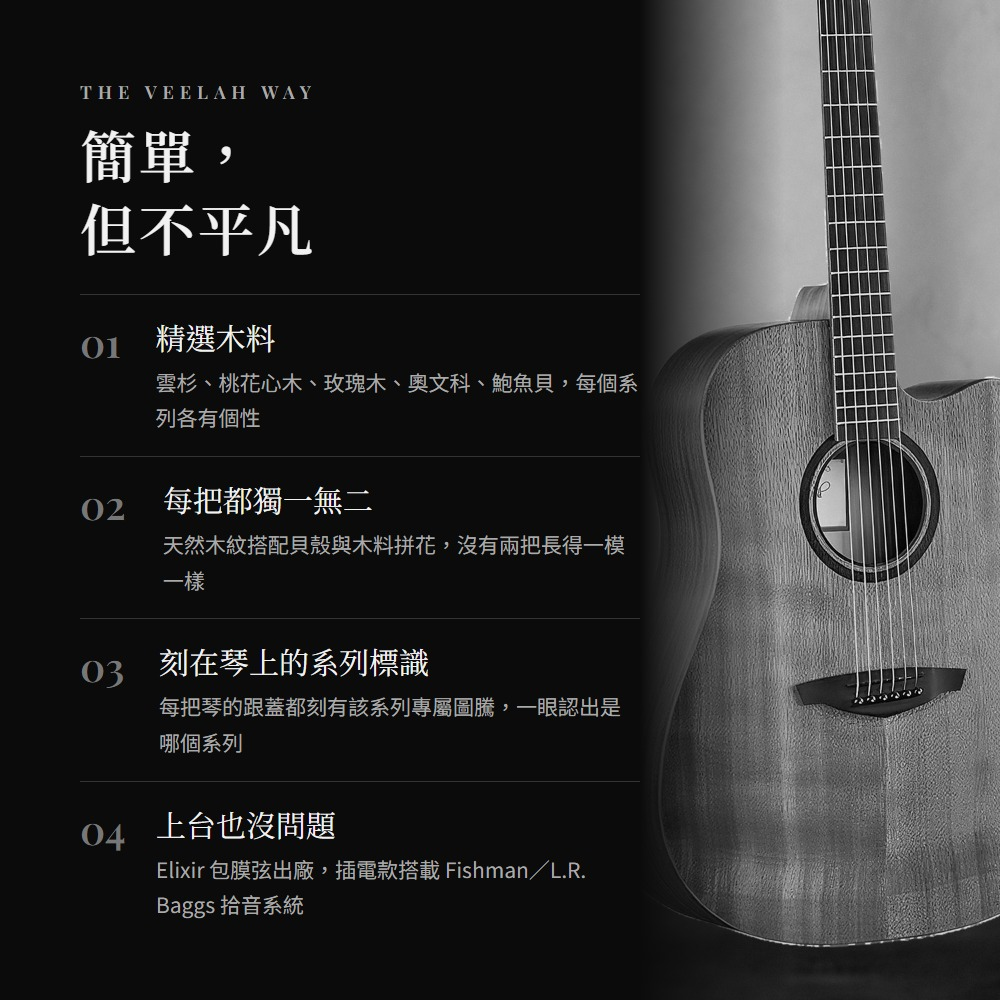
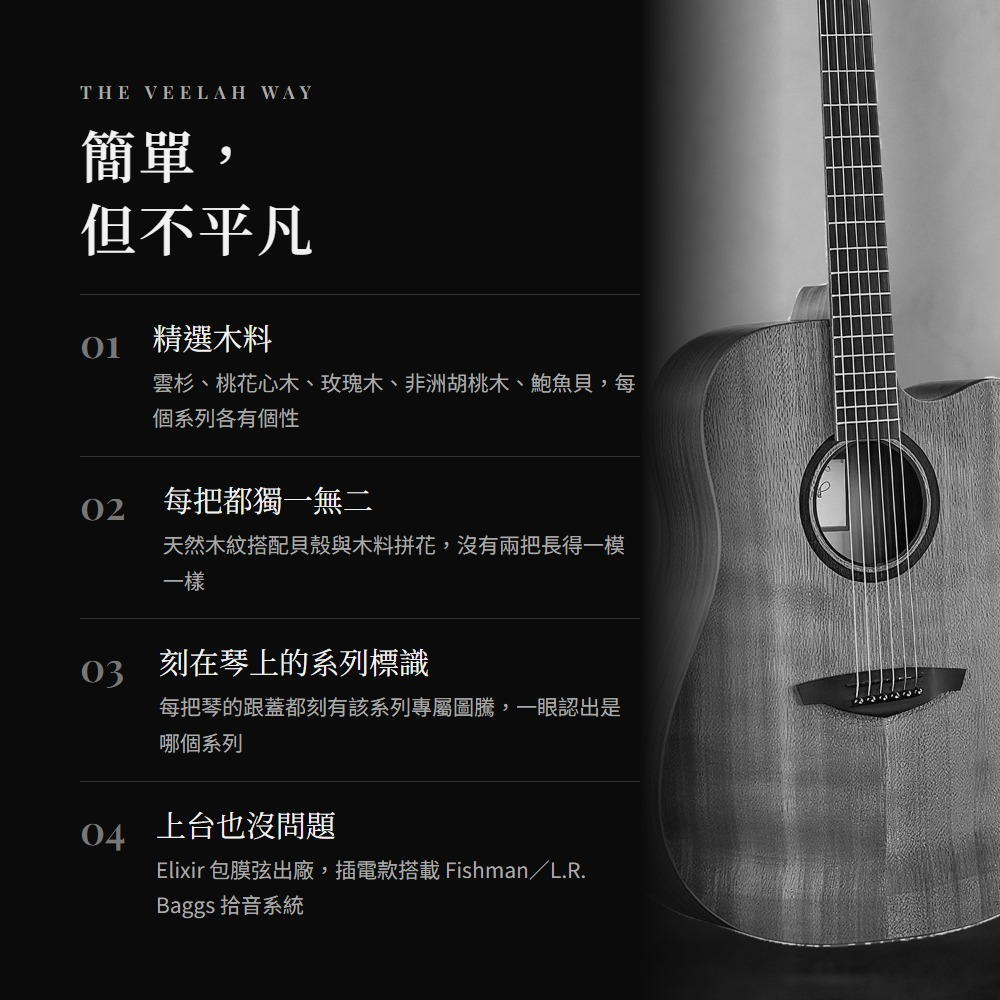
Veelah V3: 奧文科 改台灣常用說法 非洲胡桃木（頁面+品牌特色圖）

Changed region(s): [[0.155, 0.31, 0.651, 0.434]]

diff --git a/guitar/veelah/all.html b/guitar/veelah/all.html
@@ -306,24 +306,24 @@ Adding to its unique character, this model boasts antique brass plate hardware, 
  
 This guitar isn&#x27;t just an instrument—it&#x27;s a statement. Whether on stage, in the studio, or in the comfort of your home, the new Veelah guitar invites you to play with confidence and inspire those around you.</pre></details>
 
-<h3>官網原圖 <small>白底，大部分 850×1100</small></h3><div class="grid orig"><div class="card"><img loading="lazy" src="v2-denim/orig/V2-OM_Denim.jpg?v=1" alt=""><div class="cap"><span>V2-OM_Denim.jpg　1800×2330</span><a href="v2-denim/orig/V2-OM_Denim.jpg" download>下載</a></div></div><div class="card"><img loading="lazy" src="v2-denim/orig/V2-OM_Denim_Back.jpg?v=1" alt=""><div class="cap"><span>V2-OM_Denim_Back.jpg　1800×2330</span><a href="v2-denim/orig/V2-OM_Denim_Back.jpg" download>下載</a></div></div><div class="card"><img loading="lazy" src="v2-denim/orig/V2_Denim_Headstock.jpg?v=1" alt=""><div class="cap"><span>V2_Denim_Headstock.jpg　1800×2330</span><a href="v2-denim/orig/V2_Denim_Headstock.jpg" download>下載</a></div></div><div class="card"><img loading="lazy" src="v2-denim/orig/V2_Denim_OM_Close_Up.jpg?v=1" alt=""><div class="cap"><span>V2_Denim_OM_Close_Up.jpg　1800×2330</span><a href="v2-denim/orig/V2_Denim_OM_Close_Up.jpg" download>下載</a></div></div><div class="card"><img loading="lazy" src="v2-denim/orig/pexels-enric-cruz-lopez-7444977.jpg?v=1" alt=""><div class="cap"><span>pexels-enric-cruz-lopez-7444977.jpg　1800×2330</span><a href="v2-denim/orig/pexels-enric-cruz-lopez-7444977.jpg" download>下載</a></div></div><div class="card"><img loading="lazy" src="v2-denim/orig/denim_bg.jpg?v=1" alt=""><div class="cap"><span>denim_bg.jpg　1800×2330</span><a href="v2-denim/orig/denim_bg.jpg" download>下載</a></div></div><div class="card"><img loading="lazy" src="v2-denim/orig/denim_bg2.jpg?v=1" alt=""><div class="cap"><span>denim_bg2.jpg　1800×2330</span><a href="v2-denim/orig/denim_bg2.jpg" download>下載</a></div></div></div></section><section class="model" id="v3"><div class="mh"><div><h2>Veelah V3 系列</h2><p>奧文科背側，有玫瑰木味道的溫潤聲音</p></div>
+<h3>官網原圖 <small>白底，大部分 850×1100</small></h3><div class="grid orig"><div class="card"><img loading="lazy" src="v2-denim/orig/V2-OM_Denim.jpg?v=1" alt=""><div class="cap"><span>V2-OM_Denim.jpg　1800×2330</span><a href="v2-denim/orig/V2-OM_Denim.jpg" download>下載</a></div></div><div class="card"><img loading="lazy" src="v2-denim/orig/V2-OM_Denim_Back.jpg?v=1" alt=""><div class="cap"><span>V2-OM_Denim_Back.jpg　1800×2330</span><a href="v2-denim/orig/V2-OM_Denim_Back.jpg" download>下載</a></div></div><div class="card"><img loading="lazy" src="v2-denim/orig/V2_Denim_Headstock.jpg?v=1" alt=""><div class="cap"><span>V2_Denim_Headstock.jpg　1800×2330</span><a href="v2-denim/orig/V2_Denim_Headstock.jpg" download>下載</a></div></div><div class="card"><img loading="lazy" src="v2-denim/orig/V2_Denim_OM_Close_Up.jpg?v=1" alt=""><div class="cap"><span>V2_Denim_OM_Close_Up.jpg　1800×2330</span><a href="v2-denim/orig/V2_Denim_OM_Close_Up.jpg" download>下載</a></div></div><div class="card"><img loading="lazy" src="v2-denim/orig/pexels-enric-cruz-lopez-7444977.jpg?v=1" alt=""><div class="cap"><span>pexels-enric-cruz-lopez-7444977.jpg　1800×2330</span><a href="v2-denim/orig/pexels-enric-cruz-lopez-7444977.jpg" download>下載</a></div></div><div class="card"><img loading="lazy" src="v2-denim/orig/denim_bg.jpg?v=1" alt=""><div class="cap"><span>denim_bg.jpg　1800×2330</span><a href="v2-denim/orig/denim_bg.jpg" download>下載</a></div></div><div class="card"><img loading="lazy" src="v2-denim/orig/denim_bg2.jpg?v=1" alt=""><div class="cap"><span>denim_bg2.jpg　1800×2330</span><a href="v2-denim/orig/denim_bg2.jpg" download>下載</a></div></div></div></section><section class="model" id="v3"><div class="mh"><div><h2>Veelah V3 系列</h2><p>非洲胡桃木背側，有玫瑰木味道的溫潤聲音</p></div>
 <div class="btns"><a class="dl" href="v3/Veelah_v3_orig.zip" download>下載原圖（7 張 zip）</a><a class="dl ghost" href="https://www.veelah.com.tw/product-page/v3-series" target="_blank" rel="noopener">官網頁面</a></div></div>
 
 <h3>型號＆上架狀態 <small>建議商品名稱可以直接複製；MOMO／PChome 是 11/19 核對現有賣場</small></h3>
-<div class="tw"><table class="st"><tr><th>型號</th><th>桶型說明</th><th>MOMO</th><th>PChome</th><th>建議商品名稱</th></tr><tr><td><b>D</b></td><td>D 桶（Dreadnought 大桶身，聲音最大、低頻飽滿）</td><td><span class="no">還沒上</span></td><td><span class="no">還沒上</span></td><td><span class="nm">Veelah V3-D 面單吉他 雲杉單板 奧文科背側 民謠木吉他</span> <button class="cp" data-t="Veelah V3-D 面單吉他 雲杉單板 奧文科背側 民謠木吉他">複製</button></td></tr><tr><td><b>OM</b></td><td>OM 桶（中型腰身，好抱、聲音平衡，指彈自彈自唱都適合）</td><td><span class="no">還沒上</span></td><td><span class="no">還沒上</span></td><td><span class="nm">Veelah V3-OM 面單吉他 雲杉單板 奧文科背側 民謠木吉他</span> <button class="cp" data-t="Veelah V3-OM 面單吉他 雲杉單板 奧文科背側 民謠木吉他">複製</button></td></tr><tr><td><b>OMCE</b></td><td>OM 桶缺角＋插電</td><td><span class="no">還沒上</span></td><td><span class="no">還沒上</span></td><td><span class="nm">Veelah V3-OMCE 面單吉他 雲杉單板 奧文科背側 民謠木吉他 插電款</span> <button class="cp" data-t="Veelah V3-OMCE 面單吉他 雲杉單板 奧文科背側 民謠木吉他 插電款">複製</button></td></tr><tr><td><b>FOLK</b></td><td>Folk 小桶</td><td><span class="no">還沒上</span></td><td><span class="no">還沒上</span></td><td><span class="nm">Veelah V3-FOLK 面單吉他 雲杉單板 奧文科背側 民謠木吉他</span> <button class="cp" data-t="Veelah V3-FOLK 面單吉他 雲杉單板 奧文科背側 民謠木吉他">複製</button></td></tr><tr><td><b>FE</b></td><td>Folk 小桶＋插電</td><td><span class="no">還沒上</span></td><td><span class="no">還沒上</span></td><td><span class="nm">Veelah V3-FE 面單吉他 雲杉單板 奧文科背側 民謠木吉他 插電款</span> <button class="cp" data-t="Veelah V3-FE 面單吉他 雲杉單板 奧文科背側 民謠木吉他 插電款">複製</button></td></tr><tr><td><b>GAC</b></td><td>GA 桶缺角</td><td><span class="ok">已上</span></td><td><span class="no">還沒上</span></td><td><span class="nm">Veelah V3-GAC 面單吉他 雲杉單板 奧文科背側 民謠木吉他</span> <button class="cp" data-t="Veelah V3-GAC 面單吉他 雲杉單板 奧文科背側 民謠木吉他">複製</button></td></tr><tr><td><b>OMB</b></td><td>OM 桶 黑色</td><td><span class="no">還沒上</span></td><td><span class="no">還沒上</span></td><td><span class="nm">Veelah V3-OMB 面單吉他 雲杉單板 奧文科背側 民謠木吉他</span> <button class="cp" data-t="Veelah V3-OMB 面單吉他 雲杉單板 奧文科背側 民謠木吉他">複製</button></td></tr><tr><td><b>PCE</b></td><td>Parlor 小桶缺角＋插電</td><td><span class="no">還沒上</span></td><td><span class="no">還沒上</span></td><td><span class="nm">Veelah V3-PCE 面單吉他 雲杉單板 奧文科背側 民謠木吉他 插電款</span> <button class="cp" data-t="Veelah V3-PCE 面單吉他 雲杉單板 奧文科背側 民謠木吉他 插電款">複製</button></td></tr></table></div>
-<div class="two"><div class="box"><div class="bh"><b>商品特色</b><button class="cp" data-t="・V3 的招牌是奧文科拼接音孔花紋，跟背側同一種木頭，整體很協調
-・奧文科的聲音很像玫瑰木：低音紮實、高音甜，回應快、泛音溫暖
+<div class="tw"><table class="st"><tr><th>型號</th><th>桶型說明</th><th>MOMO</th><th>PChome</th><th>建議商品名稱</th></tr><tr><td><b>D</b></td><td>D 桶（Dreadnought 大桶身，聲音最大、低頻飽滿）</td><td><span class="no">還沒上</span></td><td><span class="no">還沒上</span></td><td><span class="nm">Veelah V3-D 面單吉他 雲杉單板 非洲胡桃木背側 民謠木吉他</span> <button class="cp" data-t="Veelah V3-D 面單吉他 雲杉單板 非洲胡桃木背側 民謠木吉他">複製</button></td></tr><tr><td><b>OM</b></td><td>OM 桶（中型腰身，好抱、聲音平衡，指彈自彈自唱都適合）</td><td><span class="no">還沒上</span></td><td><span class="no">還沒上</span></td><td><span class="nm">Veelah V3-OM 面單吉他 雲杉單板 非洲胡桃木背側 民謠木吉他</span> <button class="cp" data-t="Veelah V3-OM 面單吉他 雲杉單板 非洲胡桃木背側 民謠木吉他">複製</button></td></tr><tr><td><b>OMCE</b></td><td>OM 桶缺角＋插電</td><td><span class="no">還沒上</span></td><td><span class="no">還沒上</span></td><td><span class="nm">Veelah V3-OMCE 面單吉他 雲杉單板 非洲胡桃木背側 民謠木吉他 插電款</span> <button class="cp" data-t="Veelah V3-OMCE 面單吉他 雲杉單板 非洲胡桃木背側 民謠木吉他 插電款">複製</button></td></tr><tr><td><b>FOLK</b></td><td>Folk 小桶</td><td><span class="no">還沒上</span></td><td><span class="no">還沒上</span></td><td><span class="nm">Veelah V3-FOLK 面單吉他 雲杉單板 非洲胡桃木背側 民謠木吉他</span> <button class="cp" data-t="Veelah V3-FOLK 面單吉他 雲杉單板 非洲胡桃木背側 民謠木吉他">複製</button></td></tr><tr><td><b>FE</b></td><td>Folk 小桶＋插電</td><td><span class="no">還沒上</span></td><td><span class="no">還沒上</span></td><td><span class="nm">Veelah V3-FE 面單吉他 雲杉單板 非洲胡桃木背側 民謠木吉他 插電款</span> <button class="cp" data-t="Veelah V3-FE 面單吉他 雲杉單板 非洲胡桃木背側 民謠木吉他 插電款">複製</button></td></tr><tr><td><b>GAC</b></td><td>GA 桶缺角</td><td><span class="ok">已上</span></td><td><span class="no">還沒上</span></td><td><span class="nm">Veelah V3-GAC 面單吉他 雲杉單板 非洲胡桃木背側 民謠木吉他</span> <button class="cp" data-t="Veelah V3-GAC 面單吉他 雲杉單板 非洲胡桃木背側 民謠木吉他">複製</button></td></tr><tr><td><b>OMB</b></td><td>OM 桶 黑色</td><td><span class="no">還沒上</span></td><td><span class="no">還沒上</span></td><td><span class="nm">Veelah V3-OMB 面單吉他 雲杉單板 非洲胡桃木背側 民謠木吉他</span> <button class="cp" data-t="Veelah V3-OMB 面單吉他 雲杉單板 非洲胡桃木背側 民謠木吉他">複製</button></td></tr><tr><td><b>PCE</b></td><td>Parlor 小桶缺角＋插電</td><td><span class="no">還沒上</span></td><td><span class="no">還沒上</span></td><td><span class="nm">Veelah V3-PCE 面單吉他 雲杉單板 非洲胡桃木背側 民謠木吉他 插電款</span> <button class="cp" data-t="Veelah V3-PCE 面單吉他 雲杉單板 非洲胡桃木背側 民謠木吉他 插電款">複製</button></td></tr></table></div>
+<div class="two"><div class="box"><div class="bh"><b>商品特色</b><button class="cp" data-t="・V3 的招牌是非洲胡桃木拼接音孔花紋，跟背側同一種木頭，整體很協調
+・非洲胡桃木的聲音很像玫瑰木：低音紮實、高音甜，回應快、泛音溫暖
 ・雲杉單板面板，消光塗裝，手感滑順
 ・TUSQ 上下弦枕、霧面鍍鉻 14:1 弦鈕
-・插電款搭載 Fishman Presys II 前級">複製</button></div><pre>・V3 的招牌是奧文科拼接音孔花紋，跟背側同一種木頭，整體很協調
-・奧文科的聲音很像玫瑰木：低音紮實、高音甜，回應快、泛音溫暖
+・插電款搭載 Fishman Presys II 前級">複製</button></div><pre>・V3 的招牌是非洲胡桃木拼接音孔花紋，跟背側同一種木頭，整體很協調
+・非洲胡桃木的聲音很像玫瑰木：低音紮實、高音甜，回應快、泛音溫暖
 ・雲杉單板面板，消光塗裝，手感滑順
 ・TUSQ 上下弦枕、霧面鍍鉻 14:1 弦鈕
 ・插電款搭載 Fishman Presys II 前級</pre></div>
 <div class="box"><div class="bh"><b>規格表</b><button class="cp" data-t="面板：雲杉單板
-背板：奧文科（Ovangkol）
-側板：奧文科（Ovangkol）
-音孔花紋：奧文科（Ovangkol）
+背板：非洲胡桃木（Ovangkol）
+側板：非洲胡桃木（Ovangkol）
+音孔花紋：非洲胡桃木（Ovangkol）
 琴頸：桃花心木
 指板：鐵木（Pau Ferro）
 琴橋：鐵木（Pau Ferro）
@@ -337,9 +337,9 @@ This guitar isn&#x27;t just an instrument—it&#x27;s a statement. Whether on st
 拾音器（插電款）：Fishman Presys II
 附件：依賣場搭配
 桶型：D / OM / OMCE / FOLK / FE / GAC / OMB / PCE">複製</button></div><pre>面板：雲杉單板
-背板：奧文科（Ovangkol）
-側板：奧文科（Ovangkol）
-音孔花紋：奧文科（Ovangkol）
+背板：非洲胡桃木（Ovangkol）
+側板：非洲胡桃木（Ovangkol）
+音孔花紋：非洲胡桃木（Ovangkol）
 琴頸：桃花心木
 指板：鐵木（Pau Ferro）
 琴橋：鐵木（Pau Ferro）

diff --git a/guitar/veelah/index.html b/guitar/veelah/index.html
@@ -170,23 +170,23 @@ footer{max-width:1200px;margin:40px auto;padding:0 16px;color:var(--sub);font-si
 拾音器（插電款）：Fishman GT2
 附件：原廠豪華帆布琴袋</pre></div></div>
 <h3>西班牙風格圖 <small>1500×1500，每個場景一張遠景＋一張近景</small></h3><div class="mb"><div class="bh"><b>V2-DC</b><a class="dl sm" href="v2/spain/V2_DC_spain.zip" download>整包下載 6 張</a></div><div class="grid sp"><div class="card"><img loading="lazy" src="v2/spain/V2-DC_s12_wide.jpg?v=2" alt=""><div class="cap"><span>遠景</span><a href="v2/spain/V2-DC_s12_wide.jpg" download>下載</a></div></div><div class="card"><img loading="lazy" src="v2/spain/V2-DC_s12_close.jpg?v=2" alt=""><div class="cap"><span>近景</span><a href="v2/spain/V2-DC_s12_close.jpg" download>下載</a></div></div><div class="card"><img loading="lazy" src="v2/spain/V2-DC_s16_wide.jpg?v=2" alt=""><div class="cap"><span>遠景</span><a href="v2/spain/V2-DC_s16_wide.jpg" download>下載</a></div></div><div class="card"><img loading="lazy" src="v2/spain/V2-DC_s16_close.jpg?v=2" alt=""><div class="cap"><span>近景</span><a href="v2/spain/V2-DC_s16_close.jpg" download>下載</a></div></div><div class="card"><img loading="lazy" src="v2/spain/V2-DC_s3_wide.jpg?v=2" alt=""><div class="cap"><span>遠景</span><a href="v2/spain/V2-DC_s3_wide.jpg" download>下載</a></div></div><div class="card"><img loading="lazy" src="v2/spain/V2-DC_s3_close.jpg?v=2" alt=""><div class="cap"><span>近景</span><a href="v2/spain/V2-DC_s3_close.jpg" download>下載</a></div></div></div></div>
-<details class="en"><summary>官網原圖（3 張，白底）</summary><div class="grid orig"><div class="card"><img loading="lazy" src="v2/orig/V2-GAC.jpg?v=2" alt=""><div class="cap"><span>V2-GAC.jpg</span><a href="v2/orig/V2-GAC.jpg" download>下載</a></div></div><div class="card"><img loading="lazy" src="v2/orig/V2-D.jpg?v=2" alt=""><div class="cap"><span>V2-D.jpg</span><a href="v2/orig/V2-D.jpg" download>下載</a></div></div><div class="card"><img loading="lazy" src="v2/orig/V2-OM.jpg?v=2" alt=""><div class="cap"><span>V2-OM.jpg</span><a href="v2/orig/V2-OM.jpg" download>下載</a></div></div></div></details></section><section class="model" id="v3"><div class="mh"><div><h2>Veelah V3 系列</h2><p>奧文科背側，有玫瑰木味道的溫潤聲音</p></div>
+<details class="en"><summary>官網原圖（3 張，白底）</summary><div class="grid orig"><div class="card"><img loading="lazy" src="v2/orig/V2-GAC.jpg?v=2" alt=""><div class="cap"><span>V2-GAC.jpg</span><a href="v2/orig/V2-GAC.jpg" download>下載</a></div></div><div class="card"><img loading="lazy" src="v2/orig/V2-D.jpg?v=2" alt=""><div class="cap"><span>V2-D.jpg</span><a href="v2/orig/V2-D.jpg" download>下載</a></div></div><div class="card"><img loading="lazy" src="v2/orig/V2-OM.jpg?v=2" alt=""><div class="cap"><span>V2-OM.jpg</span><a href="v2/orig/V2-OM.jpg" download>下載</a></div></div></div></details></section><section class="model" id="v3"><div class="mh"><div><h2>Veelah V3 系列</h2><p>非洲胡桃木背側，有玫瑰木味道的溫潤聲音</p></div>
 <div class="btns"><a class="dl ghost" href="https://www.veelah.com.tw/product-page/v3-series" target="_blank" rel="noopener">官網頁面</a></div></div>
 <h3>廠商有貨型號＆上架狀態</h3>
-<div class="tw"><table class="st"><tr><th>型號</th><th>說明</th><th>MOMO</th><th>PChome</th><th>建議商品名稱</th></tr><tr><td><b>DC</b></td><td>D 桶缺角</td><td><span class="no">還沒上</span></td><td><span class="no">還沒上</span></td><td><span class="nm">Veelah V3-DC 面單吉他 雲杉單板 奧文科背側 D桶缺角 民謠木吉他</span> <button class="cp" data-t="Veelah V3-DC 面單吉他 雲杉單板 奧文科背側 D桶缺角 民謠木吉他">複製</button><div class="wn">官網沒有照片；圖用泰國 CT Music 的 V3-DCE（插電款）照片，音孔花紋可能是舊版，上架前跟實品對一下</div></td></tr><tr><td><b>GAC</b></td><td>GA 桶缺角</td><td><span class="ok">已上</span></td><td><span class="no">還沒上</span></td><td><span class="nm">Veelah V3-GAC 面單吉他 雲杉單板 奧文科背側 GA桶缺角 民謠木吉他</span> <button class="cp" data-t="Veelah V3-GAC 面單吉他 雲杉單板 奧文科背側 GA桶缺角 民謠木吉他">複製</button></td></tr></table></div>
-<div class="two"><div class="box"><div class="bh"><b>商品特色</b><button class="cp" data-t="・V3 的招牌是奧文科拼接音孔花紋，跟背側同一種木頭，整體很協調
-・奧文科的聲音很像玫瑰木：低音紮實、高音甜，回應快、泛音溫暖
+<div class="tw"><table class="st"><tr><th>型號</th><th>說明</th><th>MOMO</th><th>PChome</th><th>建議商品名稱</th></tr><tr><td><b>DC</b></td><td>D 桶缺角</td><td><span class="no">還沒上</span></td><td><span class="no">還沒上</span></td><td><span class="nm">Veelah V3-DC 面單吉他 雲杉單板 非洲胡桃木背側 D桶缺角 民謠木吉他</span> <button class="cp" data-t="Veelah V3-DC 面單吉他 雲杉單板 非洲胡桃木背側 D桶缺角 民謠木吉他">複製</button><div class="wn">官網沒有照片；圖用泰國 CT Music 的 V3-DCE（插電款）照片，音孔花紋可能是舊版，上架前跟實品對一下</div></td></tr><tr><td><b>GAC</b></td><td>GA 桶缺角</td><td><span class="ok">已上</span></td><td><span class="no">還沒上</span></td><td><span class="nm">Veelah V3-GAC 面單吉他 雲杉單板 非洲胡桃木背側 GA桶缺角 民謠木吉他</span> <button class="cp" data-t="Veelah V3-GAC 面單吉他 雲杉單板 非洲胡桃木背側 GA桶缺角 民謠木吉他">複製</button></td></tr></table></div>
+<div class="two"><div class="box"><div class="bh"><b>商品特色</b><button class="cp" data-t="・V3 的招牌是非洲胡桃木拼接音孔花紋，跟背側同一種木頭，整體很協調
+・非洲胡桃木的聲音很像玫瑰木：低音紮實、高音甜，回應快、泛音溫暖
 ・雲杉單板面板，消光塗裝，手感滑順
 ・TUSQ 上下弦枕、霧面鍍鉻 14:1 弦鈕
-・插電款搭載 Fishman Presys II 前級">複製</button></div><pre>・V3 的招牌是奧文科拼接音孔花紋，跟背側同一種木頭，整體很協調
-・奧文科的聲音很像玫瑰木：低音紮實、高音甜，回應快、泛音溫暖
+・插電款搭載 Fishman Presys II 前級">複製</button></div><pre>・V3 的招牌是非洲胡桃木拼接音孔花紋，跟背側同一種木頭，整體很協調
+・非洲胡桃木的聲音很像玫瑰木：低音紮實、高音甜，回應快、泛音溫暖
 ・雲杉單板面板，消光塗裝，手感滑順
 ・TUSQ 上下弦枕、霧面鍍鉻 14:1 弦鈕
 ・插電款搭載 Fishman Presys II 前級</pre></div>
 <div class="box"><div class="bh"><b>規格表</b><button class="cp" data-t="面板：雲杉單板
-背板：奧文科（Ovangkol）
-側板：奧文科（Ovangkol）
-音孔花紋：奧文科（Ovangkol）
+背板：非洲胡桃木（Ovangkol）
+側板：非洲胡桃木（Ovangkol）
+音孔花紋：非洲胡桃木（Ovangkol）
 琴頸：桃花心木
 指板：鐵木（Pau Ferro）
 琴橋：鐵木（Pau Ferro）
@@ -199,9 +199,9 @@ footer{max-width:1200px;margin:40px auto;padding:0 16px;color:var(--sub);font-si
 出廠琴弦：Elixir Nanoweb 包膜弦
 拾音器（插電款）：Fishman Presys II
 附件：依賣場搭配">複製</button></div><pre>面板：雲杉單板
-背板：奧文科（Ovangkol）
-側板：奧文科（Ovangkol）
-音孔花紋：奧文科（Ovangkol）
+背板：非洲胡桃木（Ovangkol）
+側板：非洲胡桃木（Ovangkol）
+音孔花紋：非洲胡桃木（Ovangkol）
 琴頸：桃花心木
 指板：鐵木（Pau Ferro）
 琴橋：鐵木（Pau Ferro）
